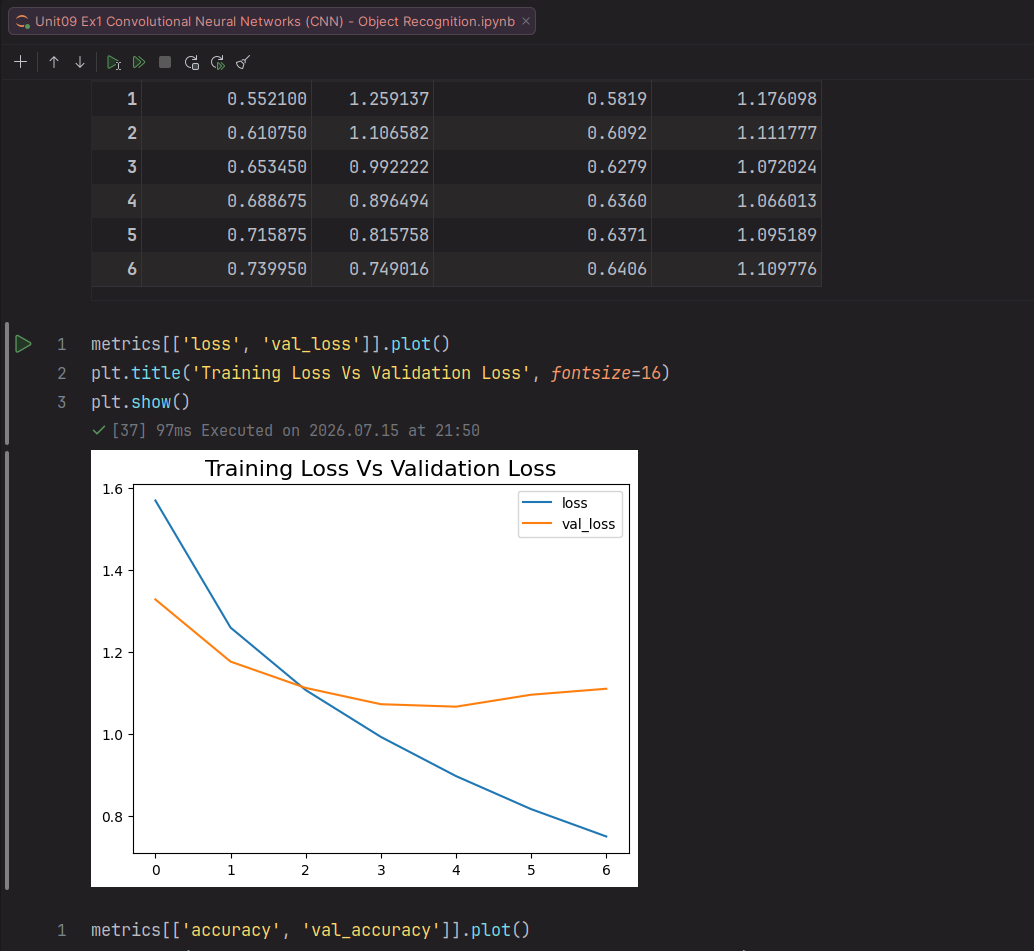
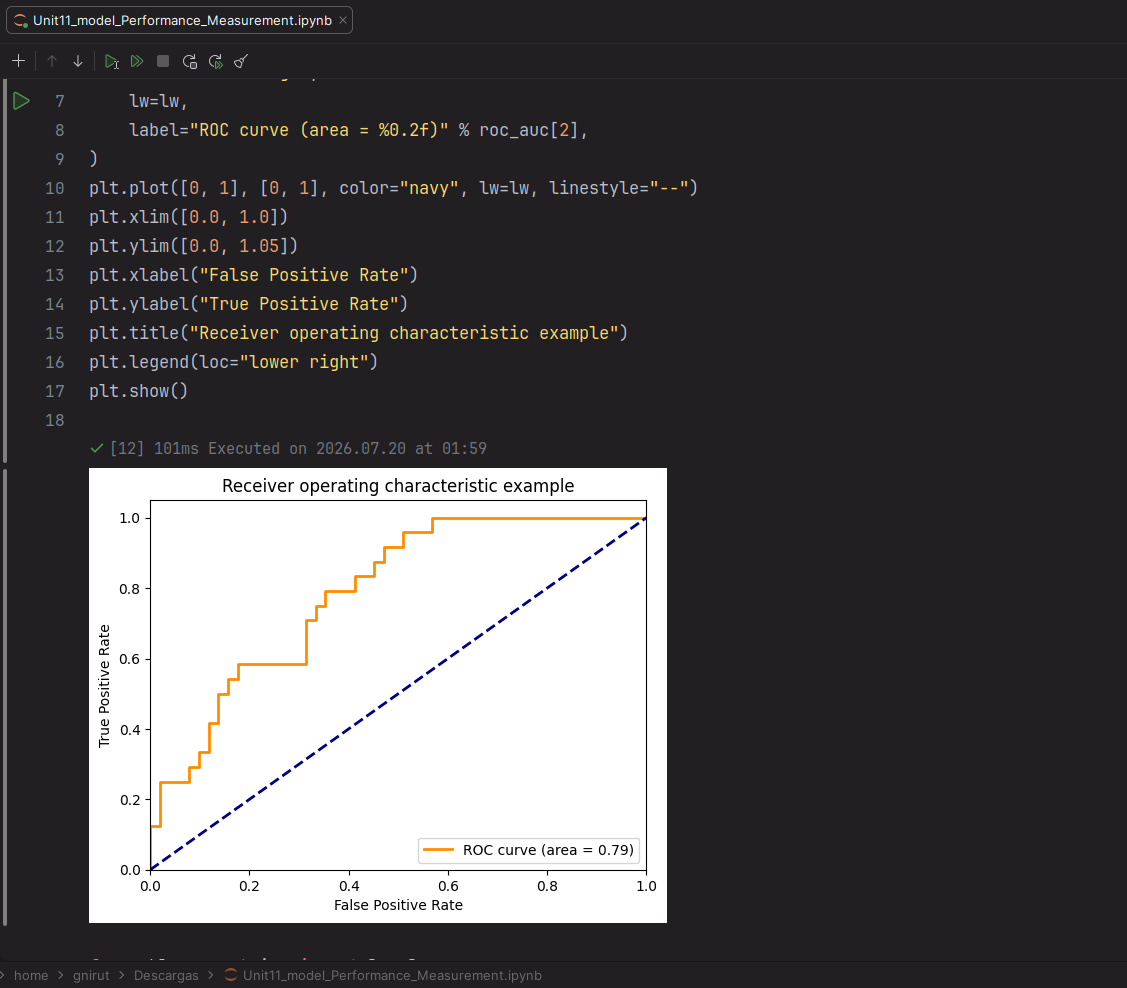
Comment Fix and wrong img

diff --git a/docs/index.html b/docs/index.html
@@ -70,7 +70,7 @@
             <h3 id=unit_1 class=project-wrapper__text-title>Unit 1</h3>
             <p class=mb-4><strong>Team Project</strong></p>
             <p class=mb-4>
-              In this post, I examined how IoT devices generate massive volumes of data requiring rigorous cleaning before analysis. I highlighted key limitations, including undetected erroneous data, lack of device standardization, and security vulnerabilities from unauthorized access.
+              In this initial post, I discuss the impact on critical computer systems (such as the NHS) when they are compromised by cyberattacks.
             </p>
             <div class="mb-3 project-tags">
               <span class="tag tag-etiqueta">Industry 5.0</span>
@@ -90,9 +90,9 @@
       <div class="align-items-center mb-8 row">
         <div class="col-lg-4 col-sm-12">
           <div class="load-hidden project-wrapper__text">
-            <p class=mb-4><strong>Initial Post</strong></p>
+            <p class=mb-4><strong>First Contact: Team Project</strong></p>
             <p class=mb-4>
-              In this activity, I initiated communication with my assigned team members for the Unit 6 Team Project and Peer Review in the Machine Learning course. The objective was to confirm group formation as designated by the course instructor and to establish the first step toward collaboration by proposing a meeting to coordinate the assignment.
+              In this activity, I initiated communication with my assigned team members for the Unit 6 Team Project and Peer Review in the Machine Learning course.
             </p>
             <div class="mb-3 project-tags">
               <span class="tag tag-etiqueta">Teamwork</span>
@@ -218,7 +218,7 @@
             <h3 id=unit_5 class=project-wrapper__text-title>Unit 5</h3>
             <p class=mb-4><strong>e-Portfolio Activity: Jaccard Distance</strong></p>
             <p class=mb-4>
-              In this activity, I implemented a Python function to calculate Jaccard distance for asymmetric binary variables.
+              In this activity, I tested parameters and execute a Python function to that calculates Jaccard distance for asymmetric binary variables.
             </p>
             <div class="mb-3 project-tags">
               <span class="tag tag-etiqueta">Jaccard Distance</span>
@@ -266,7 +266,7 @@
       <div class="align-items-center mb-4 mt-8 row">
         <div class="col-lg-4 col-sm-12">
           <div class="load-hidden project-wrapper__text">
-            <p class=mb-4><strong>Development Team Project: Project Report</strong></p>
+            <p class=mb-4><strong>Team Project and Peer Review</strong></p>
             <p class=mb-4>
               In this activity, I completed and submitted the Peer Evaluation template for the Team Project, which was subsequently graded and received a Merit classification (68%). This reflects successful completion of the collaborative assessment component of the module.
             </p>
@@ -292,7 +292,7 @@
         <div class="col-lg-4 col-sm-12">
           <div class="load-hidden project-wrapper__text">
             <p class=mb-4>
-              In this activity, I received feedback and a Pass grade (59%) for the group's Team Project assignment, with the group demonstrating a generally accurate understanding of the case study analysed. This reflects the outcome of the collaborative work completed for the module's team-based assessment.
+              In this activity, I received feedback and a Pass grade (59%) for the group's Team Project assignment, with the group demonstrating a generally accurate understanding of the case study analysed.
             </p>
             <div class="mb-3 project-tags">
               <span class="tag tag-etiqueta">Teamwork</span>
@@ -421,12 +421,12 @@
                 <strong>e-Portfolio Activity: CNN Model Activity</strong>
               </p>
               <p class=mb-4>
-                In this activity, I read the Wall (2019) article and reflected on the ethical and social implications of CNN-based object recognition technology, before running the CNN model tutorial for object recognition. Reviewing different sections of the algorithm, I changed the input image index to test the model's predictions on different samples, and monitored training and validation loss across epochs, observing the point at which validation loss began to plateau and diverge from training loss, indicating the onset of overfitting.
+                In this activity, I practiced with a Python code for convolutional neural networks, which was very useful in preparing for Unit 11, where I implemented a model with these characteristics.
               </p>
               <div class="mb-3 project-tags">
-                <span class="tag tag-etiqueta">GDPR</span>
-                <span class="tag tag-etiqueta">POPIA</span>
-                <span class="tag tag-etiqueta">Data Privacy</span>
+                <span class="tag tag-etiqueta">Python</span>
+                <span class="tag tag-etiqueta">CNN</span>
+                <span class="tag tag-etiqueta">Jupyter</span>
               </div>
             </div>
           </div>
@@ -434,7 +434,7 @@
         <div class="col-lg-8 col-sm-12">
           <div class="load-hidden project-wrapper__image" style=flex-direction:column;gap:30px;display:flex>
             <div data-tilt data-tilt-max=4 data-tilt-glare=true data-tilt-max-glare=0.5 class="js-tilt rounded thumbnail">
-              <img alt="Project Image" class=img-fluid src=/eportfolio/unit_11_a.f5d313c4.png>
+              <img alt="Project Image" class=img-fluid src=/eportfolio/unit_11_a.a3f1a725.png>
             </div>
           </div>
         </div>
@@ -474,7 +474,7 @@
             <div class="mb-3 project-tags">
               <span class="tag tag-etiqueta">LLM</span>
               <span class="tag tag-etiqueta">AI Ethics</span>
-              <span class="tag tag-etiqueta">Peer Reviews</span>
+              <span class="tag tag-etiqueta">Peer Response</span>
             </div>
           </div>
         </div>
@@ -500,7 +500,7 @@
             <h3 id=unit_11 class=project-wrapper__text-title>Unit 11</h3>
             <p class=mb-4><strong>e-Portfolio Activity: Model Performance Measurement</strong></p>
             <p class=mb-4>
-              In this activity, I ran the model performance measurement tutorial, plotting a Receiver Operating Characteristic (ROC) curve to evaluate classifier performance. Adjusting different parameters, I observed their impact on the Area Under the Curve (AUC), obtaining a value of 0.79, which reinforced understanding of how AUC and R² metrics are used to assess model discrimination ability and predictive accuracy.
+              In this code, I changed the variable values to understand how different ML model evaluation metrics behave, which proved quite useful during the development of the convolutional neural network model I programmed in this same unit.
             </p>
             <div class="mb-3 project-tags">
               <span class="tag tag-etiqueta">Model Evaluation</span>
@@ -511,7 +511,7 @@
         <div class="col-lg-8 col-sm-12">
           <div class="load-hidden project-wrapper__image">
             <div data-tilt data-tilt-max=4 data-tilt-glare=true data-tilt-max-glare=0.5 class="js-tilt rounded thumbnail">
-              <img alt="Project Image" class=img-fluid src=/eportfolio/unit_11_a.f5d313c4.png>
+              <img alt="Project Image" class=img-fluid src=/eportfolio/unit_11_a.a3f1a725.png>
             </div>
           </div>
         </div>

diff --git a/src/index.html b/src/index.html
@@ -104,7 +104,7 @@
             <h3 id="unit_1" class="project-wrapper__text-title">Unit 1</h3>
             <p class="mb-4"><strong>Team Project</strong></p>
             <p class="mb-4">
-              In this post, I examined how IoT devices generate massive volumes of data requiring rigorous cleaning before analysis. I highlighted key limitations, including undetected erroneous data, lack of device standardization, and security vulnerabilities from unauthorized access.
+              In this initial post, I discuss the impact on critical computer systems (such as the NHS) when they are compromised by cyberattacks.
             </p>
             <div class="project-tags mb-3">
               <span class="tag tag-etiqueta">Industry 5.0</span>
@@ -124,9 +124,9 @@
       <div class="row align-items-center mb-8">
         <div class="col-lg-4 col-sm-12">
           <div class="project-wrapper__text load-hidden">
-            <p class="mb-4"><strong>Initial Post</strong></p>
+            <p class="mb-4"><strong>First Contact: Team Project</strong></p>
             <p class="mb-4">
-              In this activity, I initiated communication with my assigned team members for the Unit 6 Team Project and Peer Review in the Machine Learning course. The objective was to confirm group formation as designated by the course instructor and to establish the first step toward collaboration by proposing a meeting to coordinate the assignment.
+              In this activity, I initiated communication with my assigned team members for the Unit 6 Team Project and Peer Review in the Machine Learning course.
             </p>
             <div class="project-tags mb-3">
               <span class="tag tag-etiqueta">Teamwork</span>
@@ -286,7 +286,7 @@
             <h3 id="unit_5" class="project-wrapper__text-title">Unit 5</h3>
             <p class="mb-4"><strong>e-Portfolio Activity: Jaccard Distance</strong></p>
             <p class="mb-4">
-              In this activity, I implemented a Python function to calculate Jaccard distance for asymmetric binary variables.
+              In this activity, I tested parameters and execute a Python function to that calculates Jaccard distance for asymmetric binary variables.
             </p>
             <div class="project-tags mb-3">
               <span class="tag tag-etiqueta">Jaccard Distance</span>
@@ -352,7 +352,7 @@
       <div class="row align-items-center mb-4 mt-8">
         <div class="col-lg-4 col-sm-12">
           <div class="project-wrapper__text load-hidden">
-            <p class="mb-4"><strong>Development Team Project: Project Report</strong></p>
+            <p class="mb-4"><strong>Team Project and Peer Review</strong></p>
             <p class="mb-4">
               In this activity, I completed and submitted the Peer Evaluation template for the Team Project, which was subsequently graded and received a Merit classification (68%). This reflects successful completion of the collaborative assessment component of the module.
             </p>
@@ -388,7 +388,7 @@
         <div class="col-lg-4 col-sm-12">
           <div class="project-wrapper__text load-hidden">
             <p class="mb-4">
-              In this activity, I received feedback and a Pass grade (59%) for the group's Team Project assignment, with the group demonstrating a generally accurate understanding of the case study analysed. This reflects the outcome of the collaborative work completed for the module's team-based assessment.
+              In this activity, I received feedback and a Pass grade (59%) for the group's Team Project assignment, with the group demonstrating a generally accurate understanding of the case study analysed.
             </p>
             <div class="project-tags mb-3">
               <span class="tag tag-etiqueta">Teamwork</span>
@@ -561,12 +561,12 @@
                 <strong>e-Portfolio Activity: CNN Model Activity</strong>
               </p>
               <p class="mb-4">
-                In this activity, I read the Wall (2019) article and reflected on the ethical and social implications of CNN-based object recognition technology, before running the CNN model tutorial for object recognition. Reviewing different sections of the algorithm, I changed the input image index to test the model's predictions on different samples, and monitored training and validation loss across epochs, observing the point at which validation loss began to plateau and diverge from training loss, indicating the onset of overfitting.
+                In this activity, I practiced with a Python code for convolutional neural networks, which was very useful in preparing for Unit 11, where I implemented a model with these characteristics.
               </p>
               <div class="project-tags mb-3">
-                <span class="tag tag-etiqueta">GDPR</span>
-                <span class="tag tag-etiqueta">POPIA</span>
-                <span class="tag tag-etiqueta">Data Privacy</span>
+                <span class="tag tag-etiqueta">Python</span>
+                <span class="tag tag-etiqueta">CNN</span>
+                <span class="tag tag-etiqueta">Jupyter</span>
               </div>
             </div>
           </div>
@@ -634,7 +634,7 @@
             <div class="project-tags mb-3">
               <span class="tag tag-etiqueta">LLM</span>
               <span class="tag tag-etiqueta">AI Ethics</span>
-              <span class="tag tag-etiqueta">Peer Reviews</span>
+              <span class="tag tag-etiqueta">Peer Response</span>
             </div>
           </div>
         </div>
@@ -690,7 +690,7 @@
             <h3 id="unit_11" class="project-wrapper__text-title">Unit 11</h3>
             <p class="mb-4"><strong>e-Portfolio Activity: Model Performance Measurement</strong></p>
             <p class="mb-4">
-              In this activity, I ran the model performance measurement tutorial, plotting a Receiver Operating Characteristic (ROC) curve to evaluate classifier performance. Adjusting different parameters, I observed their impact on the Area Under the Curve (AUC), obtaining a value of 0.79, which reinforced understanding of how AUC and R² metrics are used to assess model discrimination ability and predictive accuracy.
+              In this code, I changed the variable values to understand how different ML model evaluation metrics behave, which proved quite useful during the development of the convolutional neural network model I programmed in this same unit.
             </p>
             <div class="project-tags mb-3">
               <span class="tag tag-etiqueta">Model Evaluation</span>